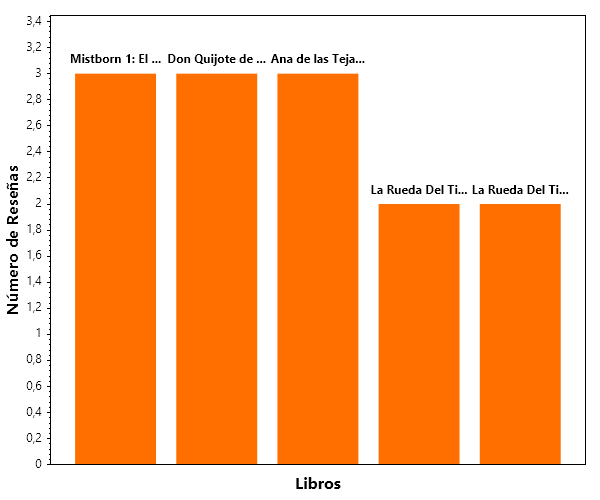
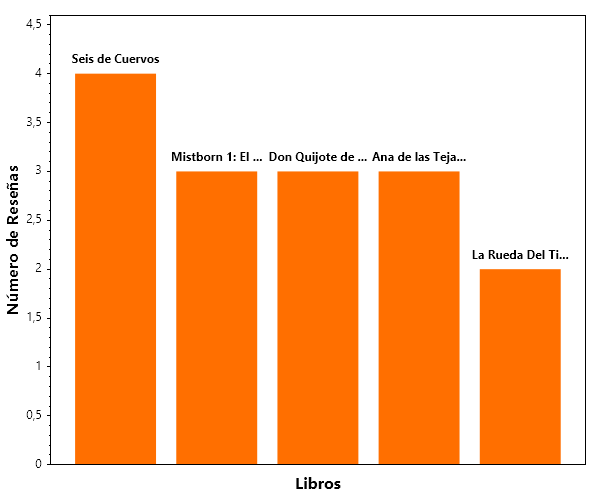
Correcciones varias

diff --git a/ReadRate_e4Gen/WebApplication-ReadRate/Models/Assemblers/LectorAssembler.cs b/ReadRate_e4Gen/WebApplication-ReadRate/Models/Assemblers/LectorAssembler.cs
@@ -18,7 +18,6 @@ namespace WebApplication_ReadRate.Models.Assemblers
             lec.Pass = en.Pass;
             lec.CantLibrosCurso = en.CantLibrosCurso;
             lec.CantLibrosLeidos = en.CantLibrosLeidos;
-            lec.CantClubsSuscritos = en.CantClubsSuscritos;
             lec.CantAutoresSeguidos = en.CantAutoresSeguidos;
 
             LibroAssembler libroAssembler = new LibroAssembler();
@@ -31,6 +30,9 @@ namespace WebApplication_ReadRate.Models.Assemblers
             var clubsCreados = en.ClubCreado ?? new List<ClubEN>();
             var todosLosClubes = clubsSuscritos.Union(clubsCreados).ToList();
             lec.ClubsInscritos = clubAssembler.ConvertirListENToViewModel(todosLosClubes);
+            
+            // Calcular el contador real de clubes basándose en la lista combinada de clubs (miembro y propietario)
+            lec.CantClubsSuscritos = todosLosClubes.Count;
             
             return lec;
         }   
